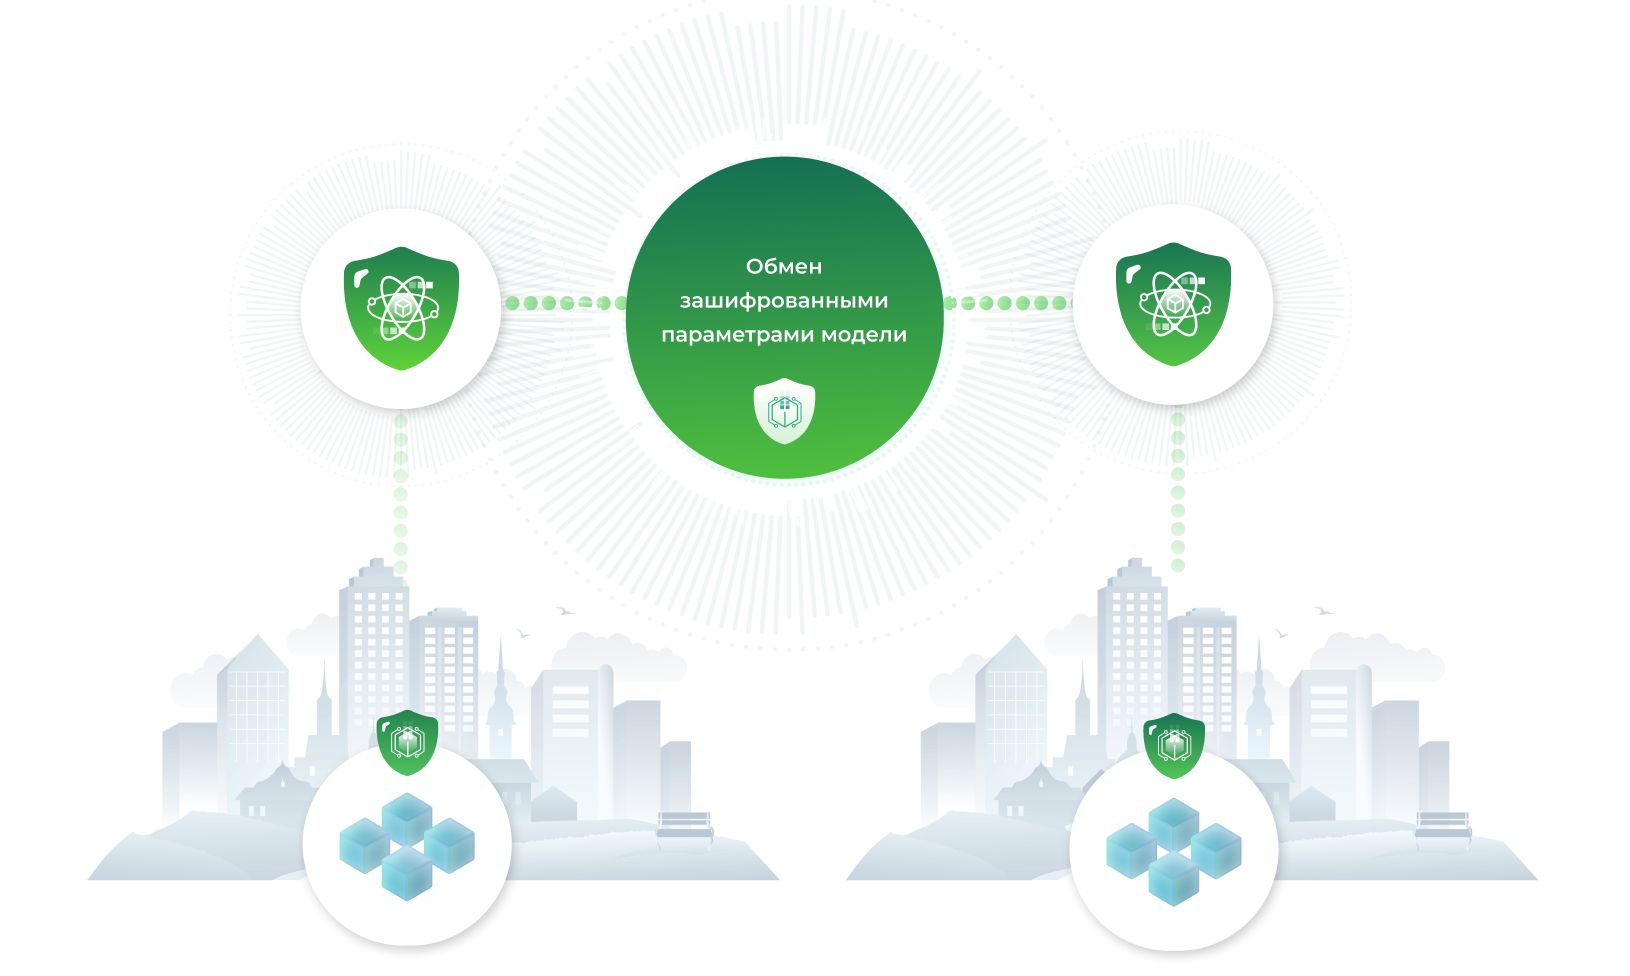
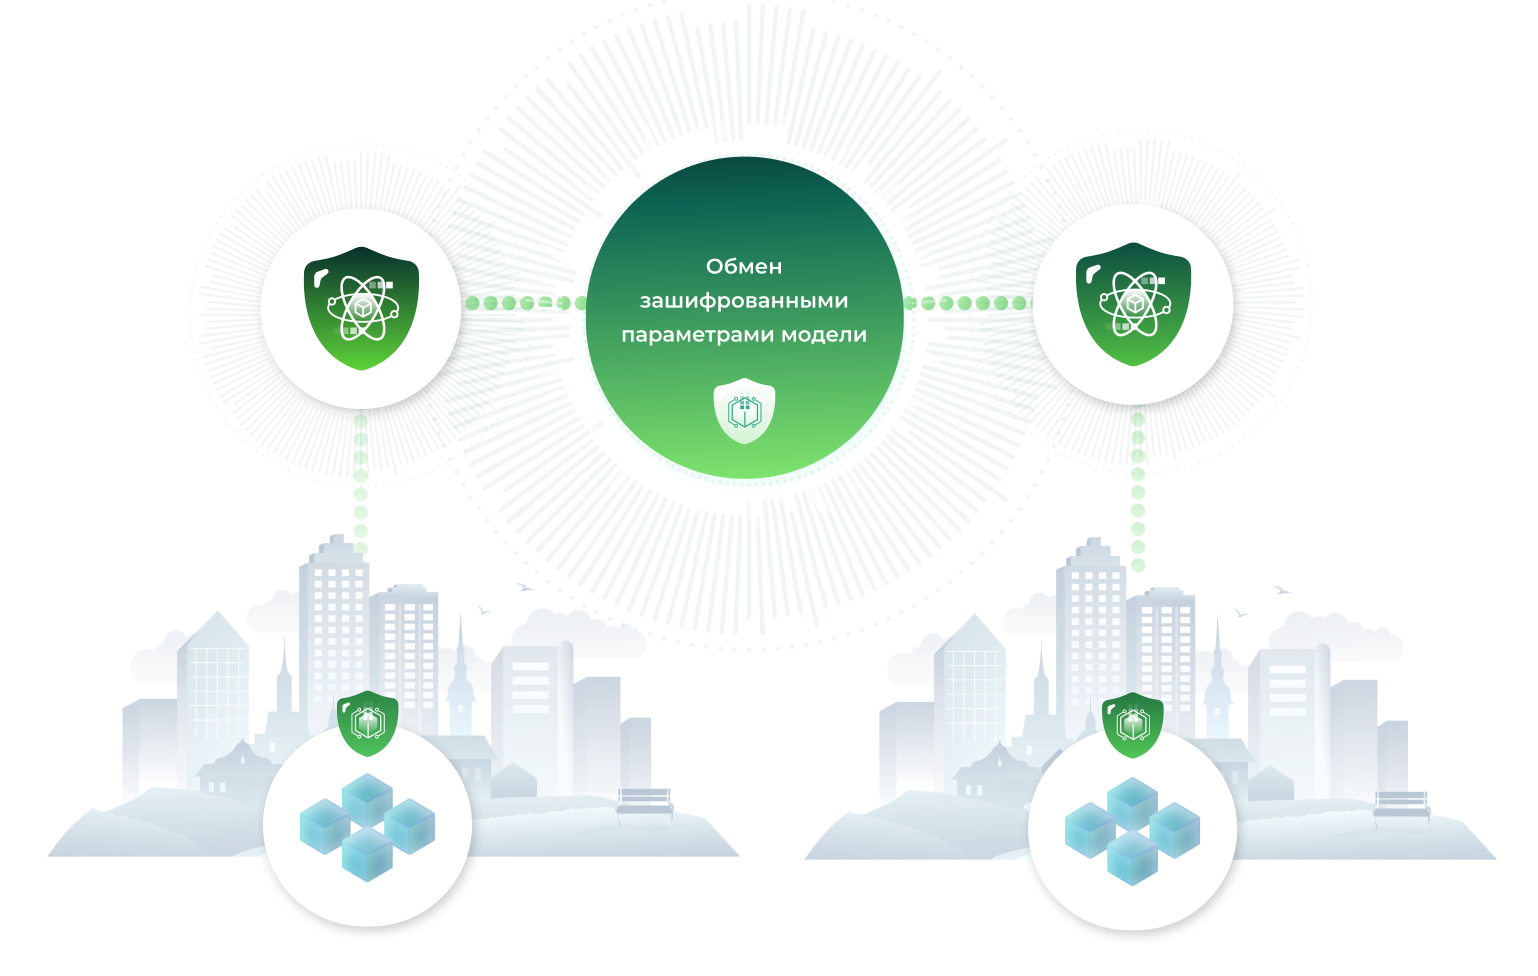
378273782

diff --git a/styles.css b/styles.css
@@ -551,6 +551,8 @@ body{
   height: auto !important;
   object-fit: contain !important;
   transform: scale(1.33) !important;
+  display: block;
+  margin: 0 auto;
 }
 
 /* Стили для плашек федеративного обучения */
@@ -564,7 +566,7 @@ body{
   padding-top: 2rem;
   padding-left: 3rem;
   margin-right: -2rem;
-  transform: translateX(-50px);
+  transform: translateX(-80px);
 }
 
 .federated-cards-right {
@@ -619,60 +621,88 @@ body{
   }
 }
 
-/* Адаптивные стили для федеративного блока */
-@media (max-width: 768px) {
-  .federated-main-image {
-    max-height: 750px !important;
-    margin-bottom: 1.5rem !important;
-  }
-  
+/* Адаптивные стили для федеративного блока - скрытие плашек на всех размерах */
+@media (max-width: 1200px) {
   .federated-cards-left {
-    gap: 0.6rem !important;
-    height: 325px !important;
-    padding-top: 1.5rem !important;
-    padding-left: 2.5rem !important;
-    margin-right: -1.5rem !important;
-    transform: translateX(-40px) !important;
+    display: none !important;
   }
   
   .federated-cards-right {
-    gap: 0.6rem !important;
-    height: 325px !important;
-    padding-top: 1.5rem !important;
+    display: none !important;
   }
   
-  .federated-card {
-    font-size: 0.56rem !important;
-    padding: 0.8rem 0.6rem !important;
-    max-width: 120px !important;
+  .federated-main-image {
+    width: 100% !important;
+    max-width: 100% !important;
+    height: auto !important;
+    max-height: 80vh !important;
+    object-fit: contain !important;
+    transform: none !important;
+    display: block;
+    margin: 0 auto;
+  }
+}
+
+@media (max-width: 992px) {
+  .federated-cards-left {
+    display: none !important;
+  }
+  
+  .federated-cards-right {
+    display: none !important;
+  }
+  
+  .federated-main-image {
+    width: 100% !important;
+    max-width: 100% !important;
+    height: auto !important;
+    max-height: 70vh !important;
+    object-fit: contain !important;
+    transform: none !important;
+    display: block;
+    margin: 0 auto;
+  }
+}
+
+@media (max-width: 768px) {
+  .federated-main-image {
+    width: 100% !important;
+    max-width: 100% !important;
+    height: auto !important;
+    max-height: 60vh !important;
+    object-fit: contain !important;
+    transform: none !important;
+    display: block;
+    margin: 0 auto;
+  }
+  
+  .federated-cards-left {
+    display: none !important;
+  }
+  
+  .federated-cards-right {
+    display: none !important;
   }
 }
 
 @media (max-width: 576px) {
   .federated-main-image {
-    max-height: 600px !important;
-    margin-bottom: 1.125rem !important;
+    width: 100% !important;
+    max-width: 100% !important;
+    height: auto !important;
+    max-height: 50vh !important;
+    object-fit: contain !important;
+    transform: none !important;
+    display: block;
+    margin: 0 auto;
   }
   
   .federated-cards-left {
-    gap: 0.45rem !important;
-    height: 260px !important;
-    padding-top: 1rem !important;
-    padding-left: 2rem !important;
-    margin-right: -1rem !important;
-    transform: translateX(-30px) !important;
+    display: none !important;
   }
   
   .federated-cards-right {
-    gap: 0.45rem !important;
-    height: 260px !important;
-    padding-top: 1rem !important;
-  }
-  
-  .federated-card {
-    font-size: 0.525rem !important;
-    padding: 0.7rem 0.5rem !important;
-    max-width: 100px !important;
+    display: none !important;
   }
 }
 @media (max-width: 1200px){
@@ -955,23 +985,53 @@ section:not(.hero-hero){
 }
 .glass-xl{background:linear-gradient(180deg, rgba(255,255,255,.95), rgba(255,255,255,.8))}
 .glass-deep{
-  background: #0c2a24;
-  border: 1px solid #1a4d3a;
-  color: #ffffff;
+  background: linear-gradient(90deg, #C8F5E1 0%, #DCFBE1 100%);
+  border: none;
+  color: #020827;
   border-radius: 16px;
   padding: 3rem 2.5rem !important;
 }
 
+.glass-deep h2 {
+  color: #064E2C !important;
+  font-size: 1.5rem;
+  font-weight: 500;
+  margin-bottom: 2rem;
+}
+
 /* Карточки шагов — тоже удвоенный padding */
 .step-card{
-  background:#fff; border:1px solid var(--border-light);
-  border-radius:.9rem; color:var(--text-dark);
-  box-shadow: 0 1px 4px rgba(0,0,0,0.03);
+  background: #ffffff; 
+  border: none;
+  border-radius: 12px; 
+  color: #64697B;
+  box-shadow: 0 2px 8px rgba(0,0,0,0.08);
+  padding: 1.5rem;
 }
 .step-head{
-  display:inline-block; background:#f8f9fa; color:#495057;
-  border:1px solid #dee2e6; border-radius:.6rem; padding:.2rem .5rem;
-  margin-bottom:.5rem; font-size:.8rem;
+  display:inline-block; 
+  background: #A1FA85; 
+  color: #064E2C;
+  border: none; 
+  border-radius: 8px; 
+  padding: 0.4rem 0.8rem;
+  margin-bottom: 2rem; 
+  font-size: 0.85rem;
+  font-weight: 500;
+}
+
+.step-card h3 {
+  color: #020827 !important;
+  font-size: 1.1rem;
+  font-weight: 500;
+  margin-bottom: 0.75rem;
+}
+
+.step-card p {
+  color: #64697B !important;
+  font-size: 0.9rem;
+  line-height: 1.4;
+  margin: 0;
 }
 
 /* Слоты изображений */
@@ -1085,29 +1145,29 @@ footer .list-unstyled a:hover{color:#fff}
 
 /* Карточки в блоке "Алгоритм вычисления" — темно-зеленый стиль */
 #algo .step-card{
-  background: #1a4d3a;
-  border: 1px solid #2d6b4f;
-  box-shadow: none;
-  color: #ffffff !important;
+  background: #ffffff;
+  border: none;
+  box-shadow: 0 2px 8px rgba(0,0,0,0.08);
+  color: #64697B !important;
   border-radius: 12px;
-  padding: 2rem 1.5rem !important;
+  padding: 1.5rem !important;
 }
 #algo .step-card h3{ 
-  color: #ffffff !important;
-  font-weight: 400;
+  color: #020827 !important;
+  font-weight: 500;
 }
 #algo .step-card p{ 
-  color: #ffffff !important;
+  color: #64697B !important;
 }
 #algo .step-card .step-head{
-  background: #2d6b4f;
-  border: 1px solid #3d7a5f;
-  color: #ffffff !important;
+  background: #A1FA85;
+  border: none;
+  color: #064E2C !important;
   border-radius: 8px;
   font-weight: 500;
 }
 #algo .step-card * {
-  color: #ffffff !important;
+  color: inherit !important;
 }
 
 /* Заголовок блока алгоритма */

diff --git a/index.html b/index.html
@@ -227,9 +227,9 @@
       <div class="container">
         <div class="glass-deep pad-2x rounded-4">
           <div class="d-flex justify-content-between align-items-center mb-3">
-            <h2 class="h4 m-0 text-white">Алгоритм вычисления</h2>
+            <h2 class="h4 m-0">Алгоритм вычисления</h2>
           </div>
-          <div class="row g-3">
+          <div class="row g-4">
             <div class="col-12 col-lg-3">
               <div class="step-card pad-2x h-100">
                 <div class="step-head">Шаг 1</div>
